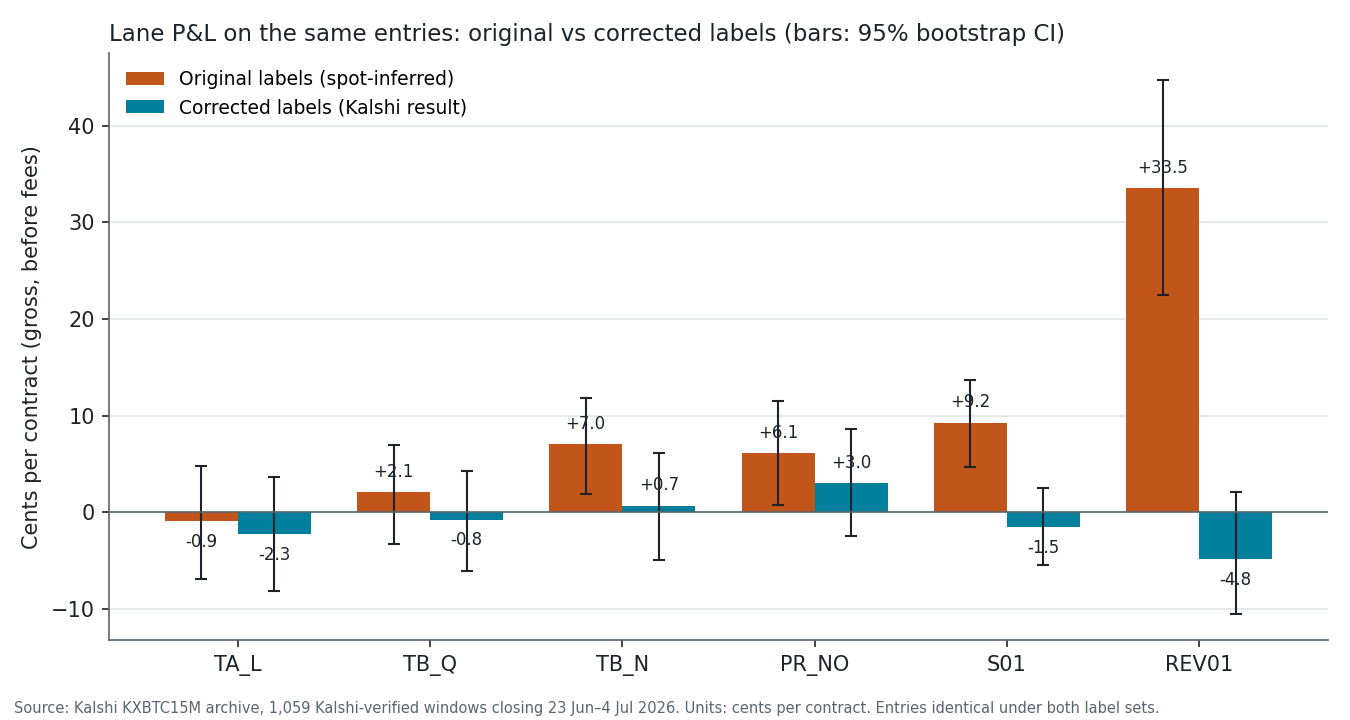
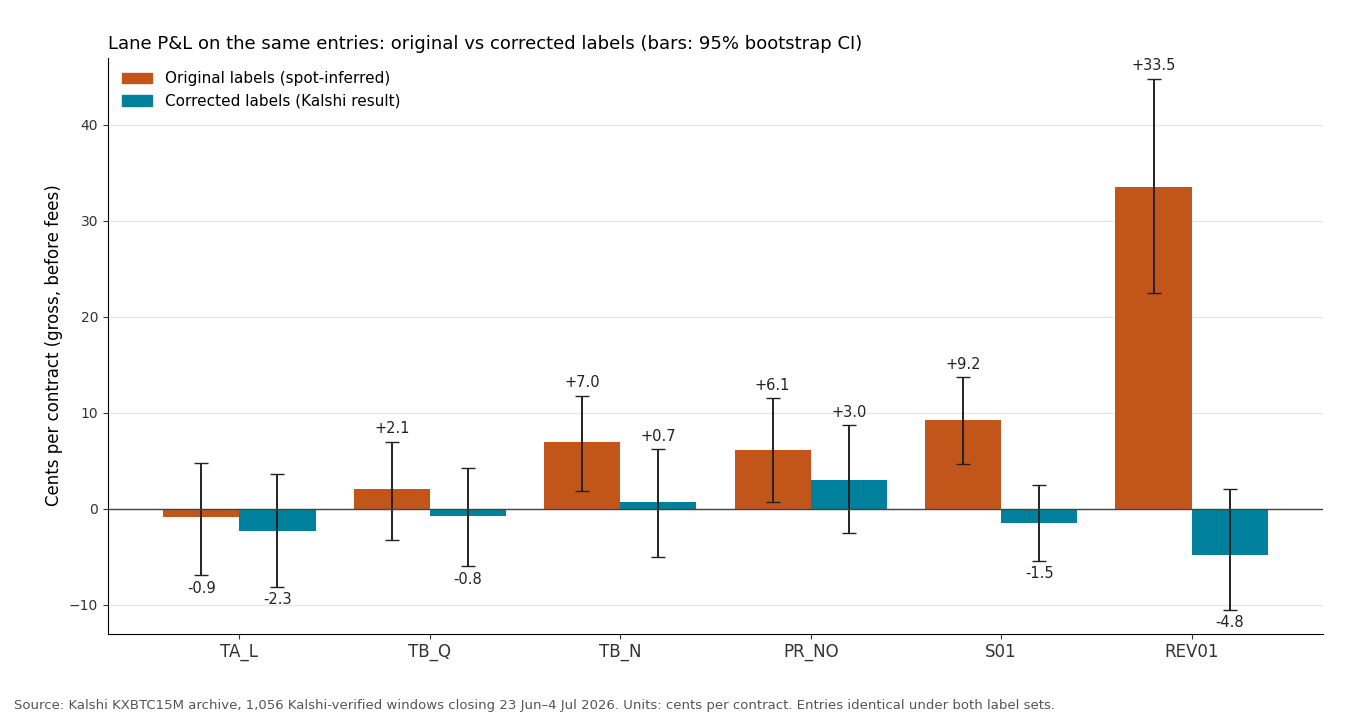
Card stat + chart fixes
Replace the BTC card's third stat with the count of strategy lanes that
survive label correction (0 of 6). Update the BTC chart images with the
corrected TB_N fill rate (54%) and window count (1,056).

diff --git a/index.html b/index.html
@@ -67,8 +67,8 @@
                 <dd>REV01 cheap-flip lane, original labels versus Kalshi-verified labels</dd>
               </div>
               <div>
-                <dt>+3.0¢</dt>
-                <dd>best corrected estimate (PR_NO), 95% interval −2.5¢ to +8.7¢</dd>
+                <dt>0 of 6 strategies survived correction</dt>
+                <dd>lanes whose 95% interval stays above zero once Kalshi-verified labels are used</dd>
               </div>
             </dl>
             <p class="card-links"><a href="projects/btc.html">Case study</a> · <a href="https://github.com/Prydae/kalshi-btc-audit">Repository</a></p>
